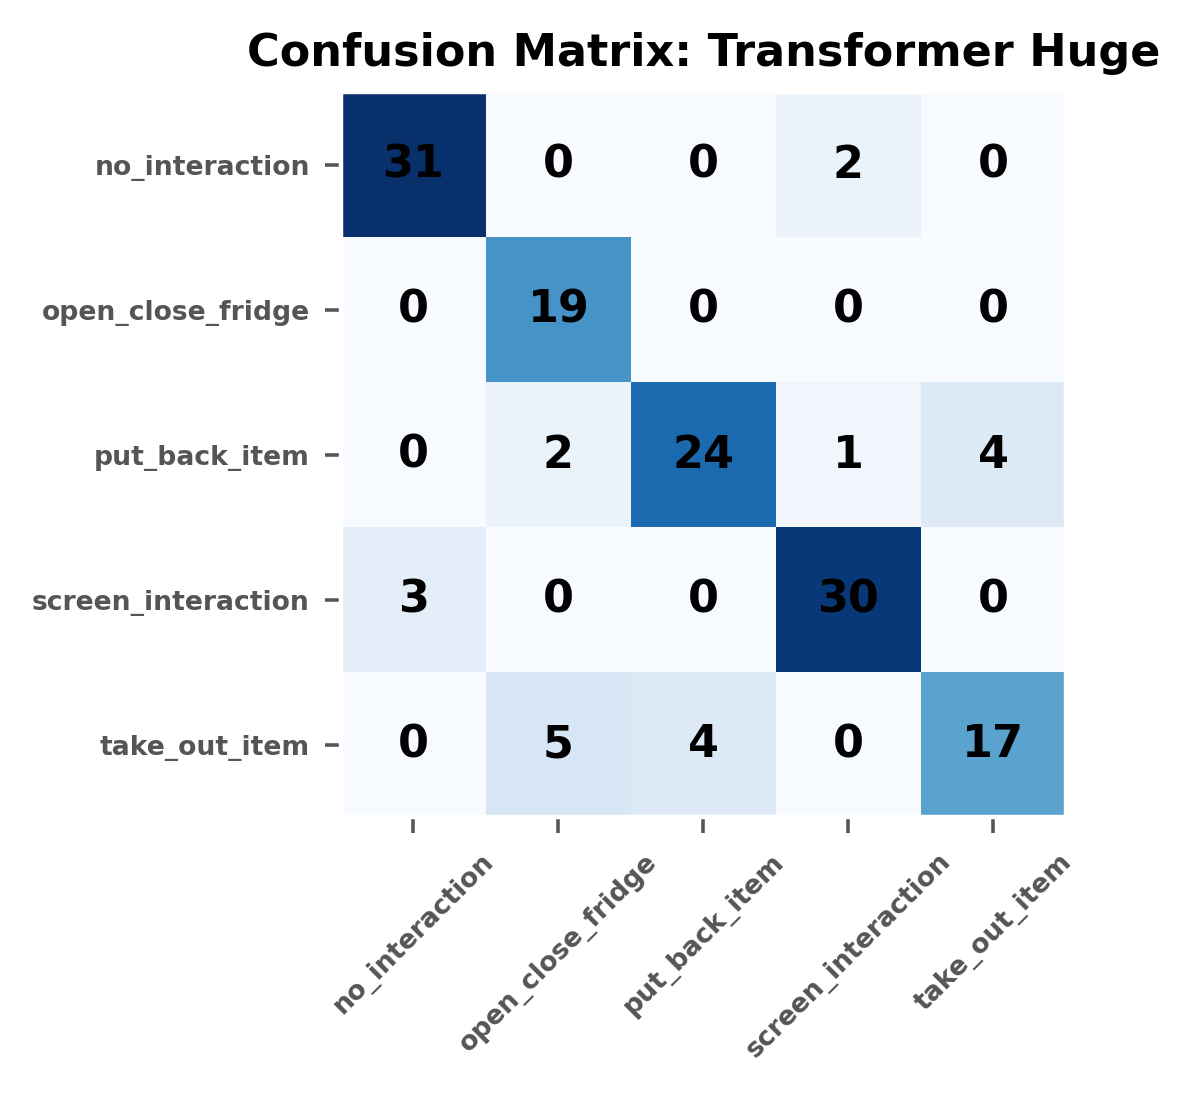
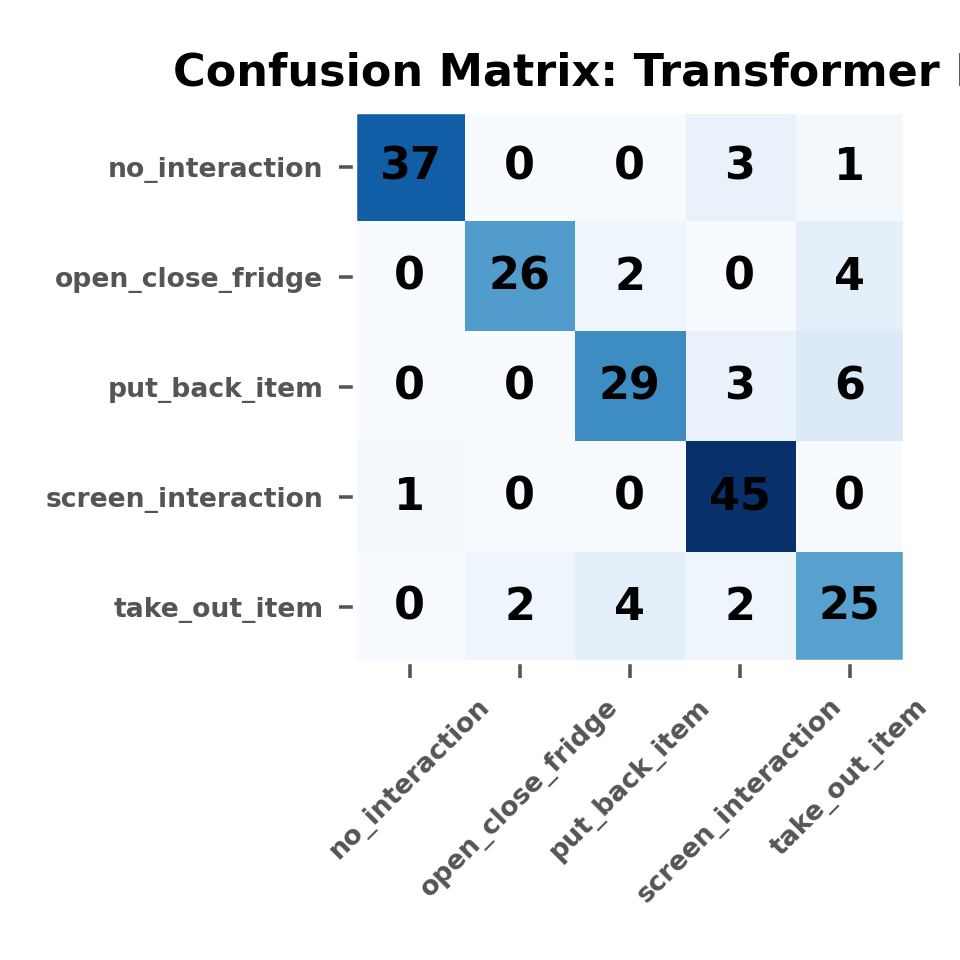
update temporal info check

diff --git a/visualization.py b/visualization.py
@@ -1,6 +1,11 @@
 import numpy as np
 import cv2
+import pandas as pd
 import torch
+from glob import glob
+import re
+import os
+
 
 from Transformer.model import transformer_huge
 
@@ -20,42 +25,142 @@ def add_keypoints(img, keypoints):
     for i in range(17):
         coord = (int(keypoints[i]), int(keypoints[i+17]))
         img = cv2.circle(img, center=coord, radius=2, color=(0, 0, 255), thickness=cv2.FILLED)
+        # img = cv2.putText(img, str(i), coord, cv2.FONT_ITALIC, 1, (0, 0, 255), thickness=2)
+
+
+    # add left arm
+    index = [5, 7, 9]
+    for i in range(len(index)-1):
+
+        img = cv2.line(img, (int(keypoints[index[i]]), int(keypoints[index[i]+17])),
+                       (int(keypoints[index[i+1]]), int(keypoints[index[i+1]+17])), color=(0, 0, 255))
+
+    # add right arm
+    index = [6, 8, 10]
+    for i in range(len(index) - 1):
+        img = cv2.line(img, (int(keypoints[index[i]]), int(keypoints[index[i] + 17])),
+                       (int(keypoints[index[i + 1]]), int(keypoints[index[i + 1] + 17])), color=(0, 0, 255))
+
 
     return img
+
+
+def extract_feature(traj):
+    video_length = len(traj["keypoints"])
+    keypoints_uninterp = np.zeros((video_length, 34))
+    for i in range(video_length):
+        features = traj["keypoints"][i][1]
+        if len(features) == 0:
+            continue
+        keypoints_uninterp[i, :] = features[0][:2, :].reshape(34)
+
+    if traj["metadata"].item()["w"] == 1920:
+        keypoints_uninterp /= 1.5
+
+    return keypoints_uninterp.transpose(1, 0)
+
+
+
 
 
 device = torch.device("cuda:0" if torch.cuda.is_available() else "cpu")
 model = transformer_huge()
 model.to(device)
-model.load_state_dict(torch.load("Transformer/Transformer_huge.pth", map_location=device))
+model.load_state_dict(torch.load("Transformer/experiment/Transformer_huge_1.pth", map_location=device))
 
 file = np.load("feature_archive/all_feature_interp951.npz", allow_pickle=True)
 X = file["X"].reshape(-1, 100, 34).transpose(0, 2, 1)
 Y = file["Y"]
-index = 100
+df = pd.read_csv("feature_archive/label_df_951.csv")
+video_name = list(df.iloc[:,0])
+all_feature_uninterp_path = [y for y in glob(os.path.join("D:/CU Files/IoT/Featurized_dataset/", "*.mp4.npz"))]
+all_feature_name = [re.findall("Featurized_dataset\\\\(.+).mp4.npz", path)[0] for path in all_feature_uninterp_path]
+# fail_index = []
+# with torch.no_grad():
+#     model.eval()
+#     for i in range(len(Y)):
+#         X_tmp = torch.Tensor(X[i]).unsqueeze(0).to(device)
+#         Y_tmp = Y[i]
+#         logit = model(X_tmp)
+#         Y_pred = torch.argmax(logit).cpu().squeeze().numpy()
+#         if not Y_pred == Y_tmp:
+#             fail_index.append(i)
+#
+# print(f"{len(fail_index)} failed.")
+# print(fail_index)
+
+
+fail_index = [107, 153, 247, 250, 270, 275, 358, 364, 371, 394, 443, 444, 578, 582, 642, 680, 698, 713, 717, 721, 748, 749, 751, 809, 821, 870, 899, 913, 914, 915]
+
+
+# good examples: 0. Feature doesn't seem correct.
+#                2. The man in the video did extra movement, explains the attention mechanism
+#                5 16 17 18 19 23 24. We need to know if there is an object in the person's hands
+#                10 11. The person is not in the video at all
+#                12. Only half of the man in the video
+#                14. Can not classify it even using the video
+#                20. Did reach his hand into the fridge, but didn't take out or put back anything.
+#                21. Depth is important
+#                25 26. Didn't take out item inside fridge, but from the door
+#                27. The original video has 2700 frames, and also the object problem
+#                28. Keypoint estimation is not correct
+#                29. Didn't do the "no interaction" in a common way
+
+
+index = fail_index[29]
 single_video = X[index][:,:]
-cls = LABEL_DECODER[Y[index]]
+failed_name = video_name[index]
+for path in all_feature_uninterp_path:
+    if failed_name in path:
+        print(path)
+        traj = np.load(path, allow_pickle=True)
+        break
 
-with torch.no_grad():
-    model.eval()
-    logits = model(torch.Tensor(single_video.copy()).unsqueeze(0).to(device))
-    y_pred = LABEL_DECODER[int(torch.argmax(logits).cpu().numpy())]
-    weights = model.blocks[6].attn.attn[0, :, 0, 1:].cpu().numpy()
-    weights = weights.mean(axis=0)
-    weights = (weights - weights.min()) / (weights.max() - weights.min())
-
+single_video_uninterp = extract_feature(traj)
 
 
-i = 0
-while True:
+def visualize(video, interp=True):
 
-    img = np.ones((720, 1280))
-    img = add_keypoints(img, single_video[:,i % 100])
-    img = cv2.putText(img, "frame {}".format(i % 100 + 1), (20, 60), cv2.FONT_ITALIC, 1, (0, 0, 255), thickness=2)
-    img = cv2.putText(img, "True: " + cls, (20, 120), cv2.FONT_ITALIC, 1, (0, 0, 255), thickness=2)
-    img = cv2.putText(img, "Pred: " + y_pred, (20, 180), cv2.FONT_ITALIC, 1, (0, 0, 255), thickness=2)
-    img = cv2.putText(img, "Attention: {:.0f}%".format(weights[i % 100] * 100), (20, 240), cv2.FONT_ITALIC, 1, (0, 0, 255), thickness=2)
+    if interp:
+        cls = LABEL_DECODER[Y[index]]
+        with torch.no_grad():
+            model.eval()
+            logits = model(torch.Tensor(video.copy()).unsqueeze(0).to(device))
+            y_pred = LABEL_DECODER[int(torch.argmax(logits).cpu().numpy())]
+            weights = model.blocks[6].attn.attn[0, :, 0, 1:].cpu().numpy()
+            weights = weights.mean(axis=0)
+            weights = (weights - weights.min()) / (weights.max() - weights.min())
 
-    cv2.imshow("Image", img)
-    cv2.waitKey(200)
-    i += 1
+        i = 0
+        while True:
+            img = np.ones((720, 1280))
+            img = add_keypoints(img, video[:,i % 100])
+            img = cv2.putText(img, "frame {}/100".format(i % 100 + 1), (20, 60), cv2.FONT_ITALIC, 1, (0, 0, 255), thickness=2)
+            img = cv2.putText(img, "True: " + cls, (20, 120), cv2.FONT_ITALIC, 1, (0, 0, 255), thickness=2)
+            img = cv2.putText(img, "Pred: " + y_pred, (20, 180), cv2.FONT_ITALIC, 1, (0, 0, 255), thickness=2)
+            img = cv2.putText(img, "Attention: {:.0f}%".format(weights[i % 100] * 100), (20, 240), cv2.FONT_ITALIC, 1, (0, 0, 255), thickness=2)
+
+            cv2.imshow("Image", img)
+            if weights[i%100] > 0.5:
+                cv2.waitKey(800)
+            else:
+                cv2.waitKey(200)
+            i += 1
+    else:
+        cls = LABEL_DECODER[Y[index]]
+        video_length = video.shape[1]
+        i = 0
+        while True:
+            img = np.ones((720, 1280))
+            img = add_keypoints(img, video[:, i % video_length])
+            img = cv2.putText(img, "frame {}/{}".format(i % video_length + 1, video_length), (20, 60), cv2.FONT_ITALIC, 1, (0, 0, 255),
+                              thickness=2)
+            img = cv2.putText(img, "True: " + cls, (20, 120), cv2.FONT_ITALIC, 1, (0, 0, 255), thickness=2)
+
+            cv2.imshow("Image", img)
+            cv2.waitKey(200)
+            i += 1
+
+
+visualize(single_video, interp=True)
+# visualize(single_video_uninterp, interp=False)

diff --git a/Transformer/evaluation.py b/Transformer/evaluation.py
@@ -5,22 +5,44 @@ from model import transformer_base, transformer_large, transformer_huge
 from utils import get_loss_acc, count_parameters, prepare_data, draw_confusion_matrix, prepare_data_3D
 
 
-test_accs = []
-seed = 20220813
-for i in range(5):
-    this_seed = seed + i
-    trainloader, testloader = prepare_data_3D(test_ratio=0.20, seed=this_seed, scale=True)
+# test_accs = []
+# seed = 20220728
+# for i in range(5):
+#     this_seed = seed + i
+#     trainloader, testloader = prepare_data(test_ratio=0.20, seed=this_seed)
+#
+#     device = torch.device("cuda:0" if torch.cuda.is_available() else "cpu")
+#     model_path = "experiment/Transformer_huge_{}.pth".format(i + 1)
+#     model = transformer_huge()
+#     model.load_state_dict(torch.load(model_path, map_location=device))
+#
+#     loss, acc = get_loss_acc(model, testloader, torch.nn.CrossEntropyLoss())
+#     test_accs.append(acc)
+#
+# print("Mean accuracy is {:.1f}%".format(np.mean(test_accs) * 100), end="  ")
+# print("with std {:.1f}%".format(np.std(test_accs) * 100))
 
-    device = torch.device("cuda:0" if torch.cuda.is_available() else "cpu")
-    model_path = "experiment_3D_feature/Transformer_huge_{}.pth".format(i + 1)
-    model = transformer_huge(n_features=51)
-    model.load_state_dict(torch.load(model_path, map_location=device))
 
-    loss, acc = get_loss_acc(model, testloader, torch.nn.CrossEntropyLoss())
-    test_accs.append(acc)
+device = torch.device("cuda:0" if torch.cuda.is_available() else "cpu")
+net = transformer_huge().to(device)
+net.load_state_dict(torch.load("experiment/Transformer_huge_1.pth", map_location=device))
 
-print("Mean accuracy is {:.1f}%".format(np.mean(test_accs) * 100), end="  ")
-print("with std {:.1f}%".format(np.std(test_accs) * 100))
+trainloader, testloader = prepare_data(seed=20220728)
+with torch.no_grad():
+    net.eval()
+    Y_pred = []
+    Y_true = []
+    for X_batch, Y_batch in testloader:
+        X_batch = X_batch.to(device)
+        Y_batch = Y_batch.to(device)
+        logits = net(X_batch)
+        pred = torch.argmax(logits, dim=1)
+        Y_pred.append(pred.cpu().numpy())
+        Y_true.append(Y_batch.cpu().numpy())
+    Y_pred = np.concatenate(Y_pred, axis=0)
+    Y_true = np.concatenate(Y_true, axis=0)
 
+draw_confusion_matrix(Y_pred, Y_true, save=True)
+print(np.mean(Y_pred == Y_true))
 
 

diff --git a/Transformer/train.py b/Transformer/train.py
@@ -87,5 +87,46 @@ def experiment2():
         criterion = nn.CrossEntropyLoss()
         train(model, epochs, trainloader, testloader, optimizer, criterion, save_path)
 
+
+def experiment3():
+    """
+    Does shuffling affect the accuracy?
+    """
+    seed = 20220728
+    experiment_path = "./experiment_shuffle"
+    if not os.path.exists(experiment_path):
+        os.mkdir(experiment_path)
+
+    # no shuffle
+    setting_path = experiment_path + "/no_shuffle"
+    if not os.path.exists(setting_path):
+        os.mkdir(setting_path)
+    for i in range(5):
+        this_seed = seed + i
+        save_path = setting_path + f"/Transformer_huge_no_shuffle_{i+1}.pth"
+        trainloader, testloader = prepare_data(seed=this_seed, shuffle_frame=False)
+        model = transformer_huge()
+        epochs = 200
+        optimizer = torch.optim.Adam(model.parameters(), lr=0.0001)
+        criterion = nn.CrossEntropyLoss()
+        train(model, epochs, trainloader, testloader, optimizer, criterion, save_path)
+
+    # shuffle
+    setting_path = experiment_path + "/shuffle"
+    if not os.path.exists(setting_path):
+        os.mkdir(setting_path)
+    for shuffle_id in range(3):
+        for i in range(5):
+            this_seed = seed + i
+            save_path = setting_path + f"/Transformer_huge_shuffle{shuffle_id+1}_{i+1}.pth"
+            trainloader_shuffle, testloader_shuffle = prepare_data(seed=this_seed, shuffle_frame=True)
+            model = transformer_huge()
+            epochs = 200
+            optimizer = torch.optim.Adam(model.parameters(), lr=0.0001)
+            criterion = nn.CrossEntropyLoss()
+            train(model, epochs, trainloader_shuffle, testloader_shuffle, optimizer, criterion, save_path)
+
+
+
 if __name__ == "__main__":
-    experiment2()
+    experiment3()

diff --git a/Transformer/utils.py b/Transformer/utils.py
@@ -35,7 +35,7 @@ class mydataset(Dataset):
         return len(self.Label)
 
 
-def prepare_data(test_ratio, seed=20220712):
+def prepare_data(test_ratio=0.2, seed=20220712, shuffle_frame=False):
     all_data = np.load(FEATURE_ARCHIVE + "all_feature_interp951.npz")
     X_all = all_data["X"]
     Y_all = all_data["Y"]
@@ -56,6 +56,11 @@ def prepare_data(test_ratio, seed=20220712):
     Y_train = Y_all[train_idx]
     X_test = X_all[test_idx]
     Y_test = Y_all[test_idx]
+
+    if shuffle_frame:
+        perm = np.random.permutation(100)
+        X_train = X_train[:,:,perm]
+        X_test = X_test[:,:,perm]
 
     # create dataset and dataloader
     train_dataset = mydataset(X_train, Y_train)
@@ -148,6 +153,7 @@ def draw_confusion_matrix(y_pred, y_true, title="Transformer Huge", save=False):
                fontsize=6)
     ax.xaxis.set_ticks_position("bottom")
     plt.title("Confusion Matrix: {}".format(title), fontsize=10)
+    plt.tight_layout()
     plt.show()
 
     if save:

diff --git a/Readme.md b/Readme.md
@@ -1,0 +1,2 @@
+This project is about understanding and classifying human activities in videos, 
+specifically in an IOT scenario
